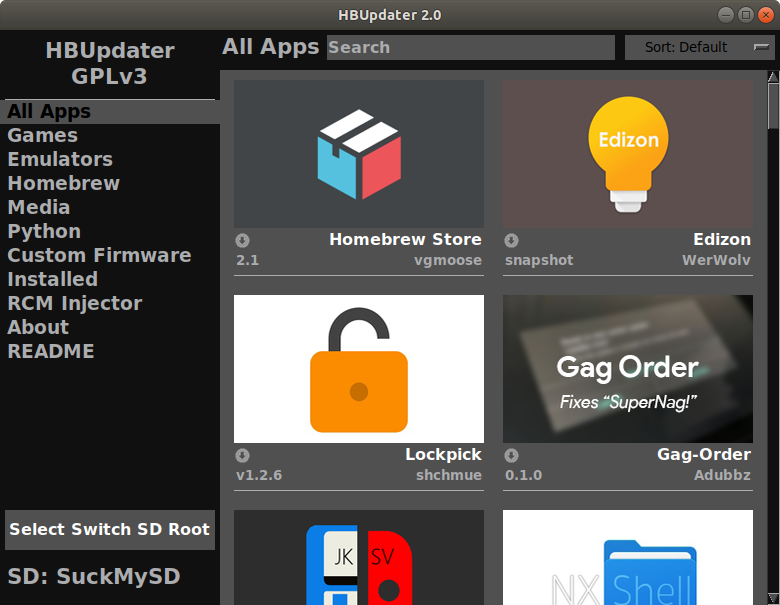
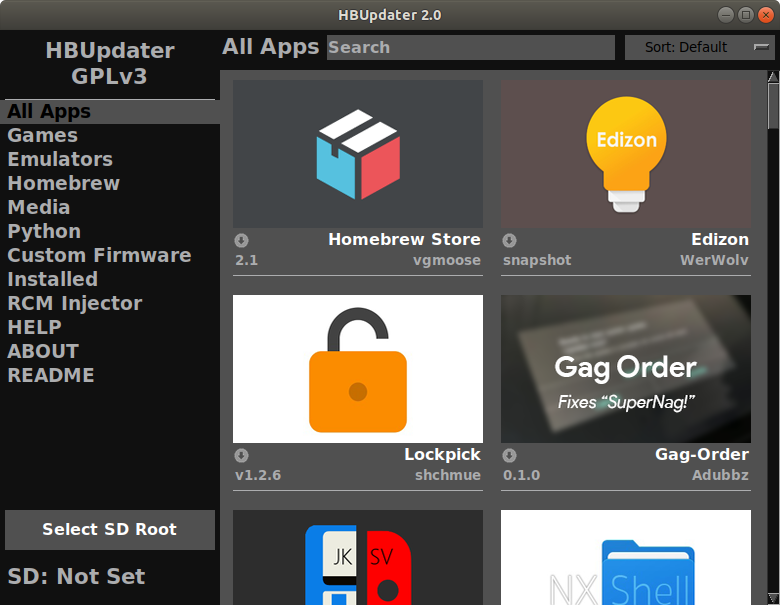
add photos, help frame, and update readme

diff --git a/pages/appstorepage.py b/pages/appstorepage.py
@@ -72,7 +72,7 @@ class appstorePage(activeFrame):
 
         self.column_set_sd = button(self.column_footer, 
             callback = self.set_sd, 
-            text_string = "Select Switch SD Root", 
+            text_string = "Select SD Root", 
             font=style.mediumboldtext, 
             background=style.color_2
             ).place(relwidth = 1, relheight = 0.5, y = style.offset, x = style.offset, width = - 2 * style.offset, height = - 2 * style.offset)
@@ -111,6 +111,7 @@ class appstorePage(activeFrame):
         cfw_frame = categoryFrame(self.content_stacking_frame, self.controller, self, self.repo_parser.customfirmwarelist)
         installed_frame = installed_categoryFrame(self.content_stacking_frame, self.controller, self, self.repo_parser.all)
         injector_frame = injector_categoryFrame(self.content_stacking_frame, self.controller, self, self.repo_parser.payloadlist)
+        help_frame = helpFrame(self.content_stacking_frame)
         about_frame = aboutFrame(self.content_stacking_frame)
         readme_frame = readmeFrame(self.content_stacking_frame)
 
@@ -154,8 +155,12 @@ class appstorePage(activeFrame):
             "text" : "RCM Injector"
             },
             {
+            "frame" : help_frame,
+            "text" : "HELP"
+            },
+            {
             "frame" : about_frame,
-            "text" : "About"
+            "text" : "ABOUT"
             },
             {
             "frame" : readme_frame,
@@ -300,3 +305,10 @@ class readmeFrame(textFrame):
         textFrame.__init__(self, frame)
         with open(locations.readme) as readme:
             self.set(readme.read())
+
+#Super basic readme frame, pulls from help.txt
+class helpFrame(textFrame):
+    def __init__(self,frame):
+        textFrame.__init__(self, frame)
+        with open("help.txt") as text:
+            self.set(text.read())

diff --git a/readme.md b/readme.md
@@ -4,9 +4,10 @@
 ![License](https://img.shields.io/badge/License-GPLv3-blue.svg) [![Releases](https://img.shields.io/github/downloads/LyfeOnEdge/HBUpdater/total.svg)]() [![LatestVer](https://img.shields.io/github/release-pre/LyfeOnEdge/HBUpdater.svg)]()
 
 # About
-HBUpdater is a one-stop-shop for managing and updating your Nintendo Switch Homebrew, downloads packages directly from github!
+HBUpdater is a one-stop-shop for managing and updating your Nintendo Switch Homebrew.
 
-# Features
+# Notes
+  - Downloads packages directly from github
   - Easily install lots of popular Homebrew
   - RCM injector (payloads downloaded from github)
   - Tracks which homebrew and what versions you have installed, compatible with the Homebrew Appstore 
@@ -14,17 +15,11 @@ HBUpdater is a one-stop-shop for managing and updating your Nintendo Switch Home
   - No longer visit 17.53 different places to make sure you have the latest version of everything
 
 # HBUpdater
-## Noob-friendly GUI
-![Noob-friendly GUI](https://imgur.com/PeVlbuv.png)
-
-## Install all the Homebrew!
-![Install all the Homebrew](https://i.imgur.com/jakOndp.png)
-
 ## View update notes and install old/legacy versions
-![View update notes and install old/legacy versions](https://i.imgur.com/n6kfG3g.png)
+![View update notes and install old/legacy versions](img/details.png)
 
 ## Built-in RCM injector
-![Built-in RCM injector (Uses fusee-launcher)](https://i.imgur.com/m0LQVfk.png)
+![Built-in RCM injector (Uses fusee-launcher)](img/injector.png)
 
 # Requirements:
     Works on: Mac, Window, Linux
@@ -32,9 +27,11 @@ HBUpdater is a one-stop-shop for managing and updating your Nintendo Switch Home
 
 # How to use:
 ##### Windows:
-- Extract HBUpdater.zip
-- Install [python](https://www.python.org/downloads/release/python-373/)
-- Double-click startHBUpdater.bat
+  - Extract HBUpdater.zip
+  - Install [python](https://www.python.org/downloads/release/python-373/)
+  	- If you do a custom installation remember to install tcl/tk, add python to the path, and include pip
+  - In a command prompt type ```pip install pillow pyusb``` to install dependencies
+  - Double-click startHBUpdater.bat
 
 ##### Macintosh:
 - Extract HBUpdater.zip
@@ -53,4 +50,4 @@ HBUpdater is a one-stop-shop for managing and updating your Nintendo Switch Home
 
 ##### Want to contribute? Have ideas? Questions? Great!
 You can find me here: 
-**[Amiibru](https://discord.gg/cXtmY9M)**
+**[4TU/Switchbru](https://discord.gg/uAfu6yM)**
